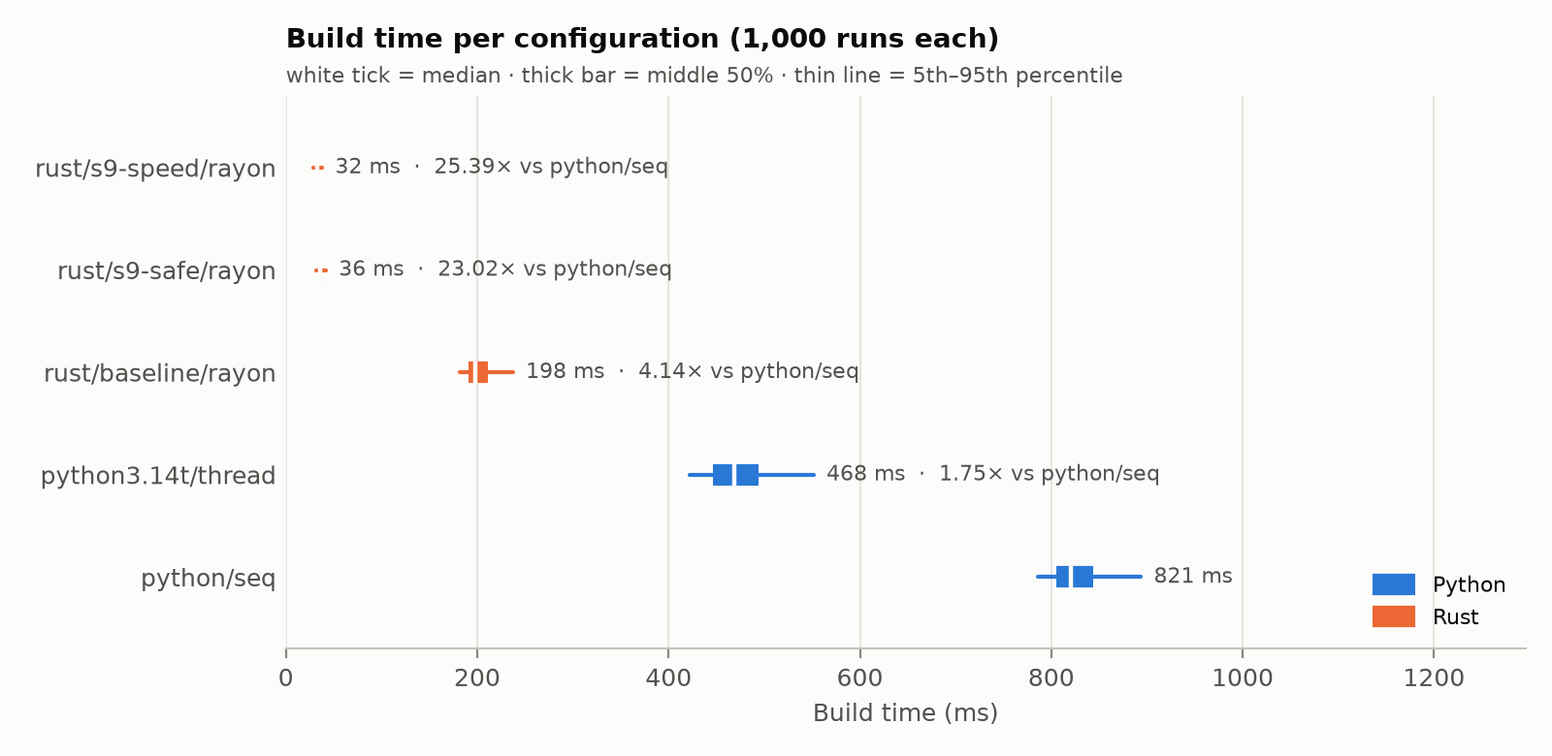
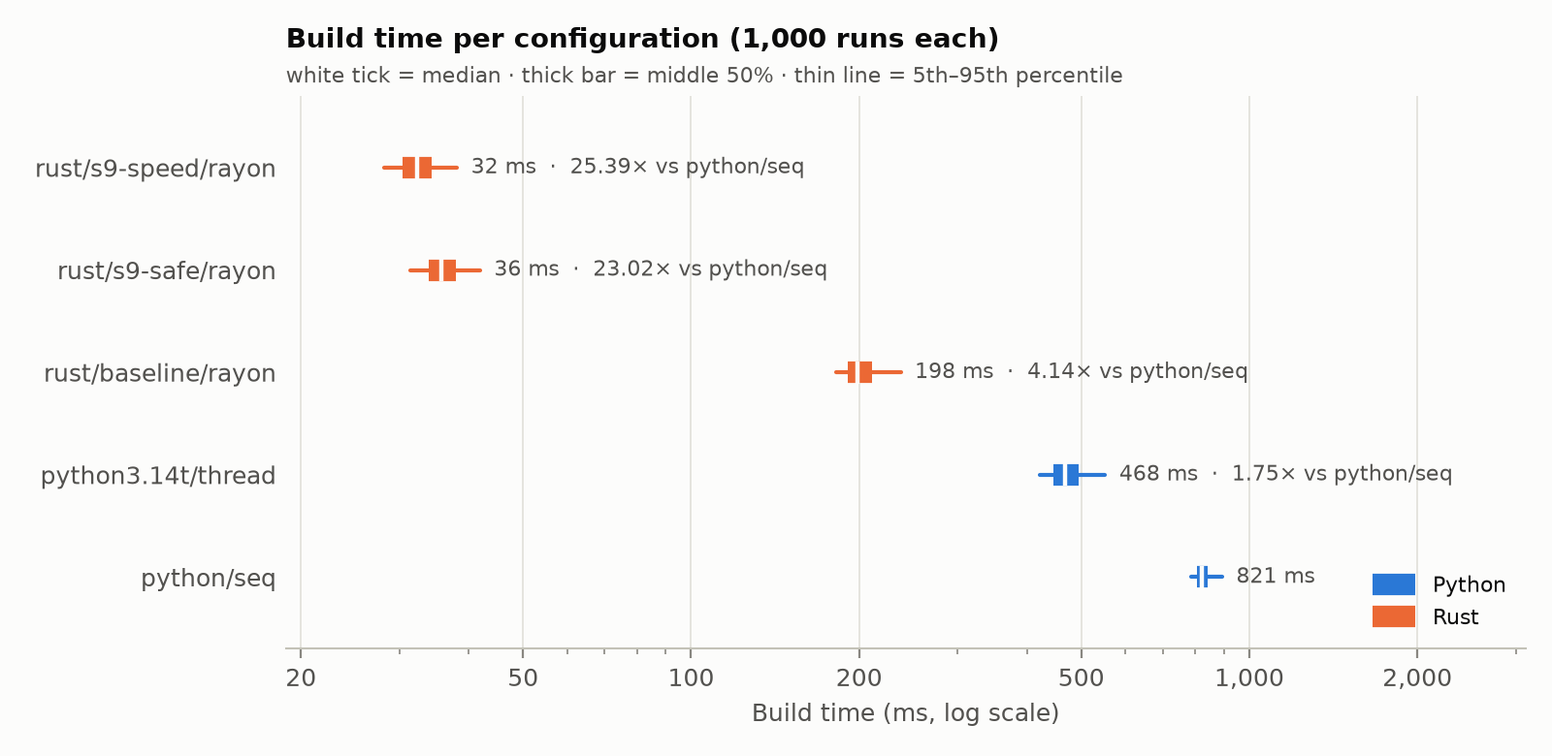
Series 2 overview: README section and log-scale charts

diff --git a/docs/NLP Computational Linguistics.md b/docs/NLP Computational Linguistics.md
@@ -1,0 +1,236 @@
+# NLP and Computational Linguistics: A Field Survey
+
+Oct 4, 2026 · @Jeremiah
+
+A map of the field for learning and for spotting where Rust is thin. Each area says what it does, the classic and modern methods, the Python tools people use, how far Rust has got, a small Rust exercise, and how it touches MARE.
+
+## At a glance
+
+Rust is strong at the bottom of the stack (characters, tokens, search, running models) and thin in the middle (parsing, meaning, discourse, corpus analysis). Rust status reflects what I found on 2026-10-04: **Mature** = several maintained crates, **Partial** = some pieces or bindings, **Thin** = little or dormant, **Gap** = nothing found.
+
+| Area | What it does | Python go-to | Rust today | MARE link |
+| --- | --- | --- | --- | --- |
+| Characters and text | Normalize, segment, repair encodings, correct OCR | ftfy, unicodedata, PyICU | Mature; OCR correction is a gap | Cleanup after extraction (fused words) |
+| Words | Tokens, subwords, stems, lemmas, morphology | spaCy, NLTK, HF tokenizers | Mature for tokenizers and stemming; lemmas thin | Indexing and chunking |
+| Syntax | Part-of-speech tags, parse trees | spaCy, Stanza, UDPipe | Partial | Structure-aware chunking |
+| Word meaning | Senses, lexicons, embeddings | NLTK WordNet, gensim, sentence-transformers | Partial (models run; lexicons thin) | Vector search |
+| Information extraction | Entities, linking, relations, coreference | spaCy, GLiNER, Stanza | Partial; coreference a gap | Knowledge graph |
+| Sentences and discourse | Semantic roles, discourse, sentiment, stance | transformers, VADER | Thin | Research synthesis |
+| Corpus linguistics | Concordance, collocation, keyness | NLTK, quanteda (R), AntConc | Thin | Exploring a corpus |
+| Language models | N-grams to LLMs | KenLM, transformers, vLLM | Mature for inference | Local models |
+| Speech and sound | Recognition, synthesis, pronunciation, alignment | Whisper, MFA, Parselmouth | Partial to mature | VTT transcripts |
+| Many languages | Language ID, transliteration, translation | fastText LID, lingua-py | Mature for language ID | Multilingual sources |
+| Search and QA | Retrieval, ranking, answers | Pyserini, bm25s, FAISS | Mature | HybridRAG core |
+| Generation | Summaries, simplification, dialogue | transformers, LLM APIs | Through model runtimes | Research reports |
+| Specialty fields | Style, history, acquisition, society | faststylometry, PyLangAcq, CLTK | Thin | Electric Sheep material |
+| Foundations | Annotation, treebanks, metrics | conllu, sacreBLEU, jiwer | Partial; document-parsing metrics a gap | Extraction metrics (B3) |
+
+## Characters and text
+
+Everything downstream depends on getting characters right: a fused word or a broken encoding poisons search, embeddings and metrics alike.
+
+- **Tasks:** Unicode normalization (NFC, NFKC), case folding, splitting into graphemes, words and sentences, fixing mojibake, de-hyphenating line breaks, correcting OCR errors.
+- **Methods:** rules and Unicode tables (UAX #29 for boundaries); dictionary and frequency-based repair; modern OCR post-correction uses sequence-to-sequence models or LLMs.
+- **Python:** `unicodedata`, PyICU, ftfy, wordninja and SymSpell for splitting fused words.
+- **Rust:** mature. `unicode-segmentation` and `unicode-normalization`, ICU4X, `plsfix` (an ftfy port with Python bindings), `charabia` (Meilisearch's normalizer). OCR post-correction: nothing found.
+- **Try in Rust:** a fused-word splitter. Learn word frequencies from the 21 books, then split "thewhale" into "the whale" with dynamic programming (Viterbi over word costs).
+- **MARE:** this is where its fused-word finding lives. A repair step after extraction is candidate 2 for the parallel project.
+
+## Words: tokens, stems, lemmas, morphology
+
+Deciding what counts as a word is the first real linguistic decision, and Rust is strongest here.
+
+- **Tasks:** tokenization; subword tokenization for models (BPE, WordPiece, Unigram); stemming ("running" → "run" by rule); lemmatization ("better" → "good" by dictionary); morphological analysis ("unhappiness" = un + happy + ness); segmenting languages written without spaces (Chinese, Japanese, Thai).
+- **Methods:** rules and finite-state transducers; dictionaries; statistical segmenters (Viterbi over a lattice); neural models.
+- **Python:** spaCy, NLTK, HF `tokenizers`, `tiktoken`, SentencePiece, jieba, SudachiPy.
+- **Rust:** mature for tokenizers. HF `tokenizers` is Rust underneath, plus `tiktoken-rs`, `bpe`, `rust-stemmers` (Snowball), `jieba-rs`, `lindera`, `vibrato`, `vaporetto`, `rustfst` (finite-state transducers). Lemmatization is thin.
+- **Try in Rust:** add Snowball stemming to your BM25 engine behind a Cargo feature, then measure recall and speed. Or train a tiny BPE tokenizer on the 21 books.
+- **MARE:** the tokenizer decides what the lexical index can match. Stemming trades precision for recall.
+
+## Syntax: tags and parse trees
+
+Syntax labels each word's role and how words attach to each other, and Rust has pieces but no complete parser of its own.
+
+- **Tasks:** part-of-speech tagging; chunking (noun phrases, verb groups); dependency parsing (which word governs which); constituency parsing (nested phrases).
+- **Methods:** hidden Markov models and averaged perceptrons for tagging; transition-based and graph-based dependency parsers; today, transformer encoders under a small parsing head. Universal Dependencies gives one annotation scheme for 100+ languages.
+- **Python:** spaCy, Stanza, UDPipe, Trankit, benepar (constituency).
+- **Rust:** partial. `rustling` has a perceptron tagger and HMMs. `udpipe-rs` binds UDPipe. `SpaRs` runs spaCy's English models natively but is experimental. `rust-bert` covers POS through transformer models.
+- **Try in Rust:** an averaged perceptron POS tagger trained on a Universal Dependencies treebank (CoNLL-U files). It's about 200 lines and teaches structs, traits and hash maps.
+- **MARE:** noun phrases make good index terms and graph nodes; parse trees help split long sentences into propositions.
+
+## Word meaning: senses, lexicons, embeddings
+
+Meaning comes either from hand-built lexicons or from where words occur ("you shall know a word by the company it keeps"). Rust can run the models, but the lexicon side is thin.
+
+- **Tasks:** word sense disambiguation (bank: river or money); lexical relations (synonyms, hypernyms); word and sentence embeddings; semantic similarity.
+- **Methods:** WordNet and FrameNet; counts and PMI matrices, then LSA; word2vec, GloVe and fastText; contextual embeddings from transformers; static distilled embeddings (Model2Vec) for speed.
+- **Python:** NLTK's WordNet, gensim, sentence-transformers, Model2Vec.
+- **Rust:** partial. Models run through `candle` (which ships BERT, E5 and GTE embedding models), `ort` and `rust-bert`. The embedding-format crates `finalfusion` and `finalfrontier` are dormant. WordNet access in Rust is thin.
+- **Try in Rust:** build a PMI co-occurrence matrix from the 21 books and list each word's nearest neighbours. It's distributional semantics with nothing but hash maps.
+- **MARE:** this is the vector half of HybridRAG (B2 and B6).
+
+## Information extraction: entities, relations, coreference
+
+Extraction turns text into structured facts: who, what, where, and how they connect. It's the raw material for a knowledge graph.
+
+- **Tasks:** named entity recognition (people, organizations, places, dates); entity linking (which "Washington" is meant, tied to a knowledge base); relation extraction (X founded Y); coreference ("she" = Dr. Lee); event extraction; keyword and keyphrase extraction.
+- **Methods:** gazetteers and rules; CRFs; fine-tuned transformers; zero-shot extractors such as GLiNER; LLMs prompted to emit triples.
+- **Python:** spaCy, Stanza, GLiNER, Flair, REBEL for relations, fastcoref, KeyBERT and YAKE for keyphrases.
+- **Rust:** partial. `rust-bert` has NER pipelines, and any ONNX model runs through `ort`. LeNLP's FlashText does fast dictionary matching. Coreference and entity linking: nothing found.
+- **Try in Rust:** a gazetteer NER with an Aho-Corasick automaton (the `aho-corasick` crate) over a list of names from the books. Then measure it against spaCy.
+- **MARE:** the semantic knowledge graph in B6 is built from this. The LLM extraction step dominates its cost.
+
+## Sentences and discourse: roles, structure, sentiment, stance
+
+Above the sentence, the questions become who did what to whom, how ideas connect, and what the writer thinks. LLMs now handle much of this, so dedicated tools are fading in Python too.
+
+- **Tasks:** semantic role labeling (agent, patient, instrument); discourse parsing (cause, contrast, elaboration between clauses, as in Rhetorical Structure Theory); argument mining (claims and evidence); sentiment and emotion; stance (for or against a target); hedging and certainty; pragmatics (implicature, speech acts, dialogue acts).
+- **Methods:** lexicons (VADER for sentiment); feature-based classifiers; fine-tuned transformers; LLM prompting.
+- **Python:** transformers pipelines, VADER, NLTK's sentiment tools. AllenNLP, the former home of SRL models, is archived.
+- **Rust:** thin. `vader_sentiment` is dormant; `rust-bert` has sentiment classification; anything else means running a model through `ort` or `candle`.
+- **Try in Rust:** port VADER's lexicon and rules (a few hundred lines) and check it gives the same scores as Python on a test set.
+- **MARE:** claim, evidence and hedging detection fit a research engine that has to weigh sources.
+
+## Corpus linguistics: patterns across many texts
+
+Corpus linguistics counts and compares language at scale. It's mostly statistics over big indexes, which suits Rust, yet Rust barely has it.
+
+- **Tasks:**
+  - concordance, or keyword in context (KWIC): every use of a word, with its neighbours;
+  - collocation: words that occur together more than chance, such as "strong tea";
+  - keyness: words over-used in one corpus compared with another;
+  - dispersion: whether a word appears evenly or in bursts;
+  - n-gram and lexical bundle counts;
+  - register and genre analysis.
+- **Methods:** association measures (PMI, log-likelihood, t-score, Dice); suffix arrays for fast n-gram and phrase lookup; multidimensional analysis (Biber).
+- **Python and others:** NLTK collocations, corpus-toolkit, spaCy plus pandas. Outside Python: quanteda (R) and AntConc and Sketch Engine (desktop and web).
+- **Rust:** thin. `rustling` counts n-grams; the rest is a gap.
+- **Try in Rust:** your index already holds word positions, so a KWIC concordance and PMI collocations are small additions to the playground engine.
+- **MARE:** keyness can tell a researcher what's distinctive about one source compared with the rest of a corpus.
+
+## Language models: n-grams to LLMs
+
+A language model assigns probabilities to text. Running neural models is now a strength of Rust; classic n-gram models are only partly covered.
+
+- **Tasks:** scoring how likely text is (perplexity); predicting the next word; generation; filtering data by quality; constrained decoding (forcing output into a schema).
+- **Methods:** n-gram models with smoothing (Kneser-Ney); RNNs; transformers; quantized local inference; speculative decoding.
+- **Python:** KenLM's Python module (the library itself is C++), transformers, vLLM, llama-cpp-python.
+- **Rust:** mature for inference. `llama-cpp-2` (the most used), `mistralrs` (pure Rust, on `candle`), `candle-transformers` and `burn`. `llguidance` handles constrained decoding inside vLLM, SGLang and llama.cpp, so Rust already sits underneath the Python stack. For n-grams, `rustling` has language models and `kenlm-rs` binds KenLM.
+- **Try in Rust:** a Kneser-Ney trigram model over the 21 books. Then use its perplexity to spot garbled text, such as a bad extraction.
+- **MARE:** local models for research agents. A cheap n-gram "does this look like language" score could flag extraction failures.
+
+## Speech and sound
+
+Speech is where computational linguistics meets signal processing. Rust is surprisingly strong at running speech models, but thin on phonetic analysis.
+
+- **Tasks:** speech recognition (ASR) and synthesis (TTS); converting spelling to pronunciation (grapheme-to-phoneme, G2P); forced alignment (timing each word and sound); voice activity detection; speaker diarization (who spoke when); phonetic measurement (pitch, formants); phonological analysis (sound patterns, syllables).
+- **Methods:** HMM-GMM systems and finite-state transducers; neural end-to-end models (Whisper, Parakeet); Praat-style acoustic analysis.
+- **Python:** Whisper, faster-whisper, Montreal Forced Aligner, Parselmouth (Praat), Epitran and phonemizer for G2P, pyannote for diarization. WikiPron (by rustling's author) is a large G2P dataset.
+- **Rust:**
+  - Running models is partial to mature: `whisper-rs`, `sherpa-onnx` (recognition, TTS, diarization), `parakeet-rs`, `piper-rs`, a pure-Rust `espeak-ng` port, and `earshot` for voice activity detection.
+  - Audio plumbing is mature: `symphonia`, `rustfft`, `rubato`.
+  - Phonetic analysis and forced alignment are thin. `rustling` reads TextGrid and ELAN files.
+- **Try in Rust:** a syllable counter, or a G2P lookup built from WikiPron data.
+- **MARE:** VTT transcripts are already an input format, and diarization would attribute quotes to speakers.
+
+## Many languages: identification, transliteration, translation
+
+Most NLP tools assume English. Multilingual work starts with knowing which language you have, and that's one place where Rust leads.
+
+- **Tasks:** language identification (including short and mixed-language text); script detection; transliteration (Москва → Moskva); machine translation; cross-lingual embeddings and search; low-resource and endangered languages.
+- **Methods:** character n-gram profiles; fastText classifiers; neural translation (MarianMT, NLLB); multilingual encoders (XLM-R, LaBSE).
+- **Python:** fastText's language ID model, `lingua-py` (which now runs on the Rust `lingua`), langdetect, CTranslate2, transformers.
+- **Rust:** mature for language ID. `lingua` is accurate on short text and `whatlang` is fast and light. `charabia` detects scripts. Translation runs through model runtimes (`candle`, `ort`, `rust-bert`'s translation pipelines). Transliteration is thin.
+- **Try in Rust:** a character-trigram language identifier (Cavnar-Trenkle profiles), then compare it with `whatlang` for accuracy and speed.
+- **MARE:** route documents to the right tokenizer and stemmer, and decide whether a source needs translation before indexing.
+
+## Search and question answering
+
+Information retrieval is NLP's most-used application, and the one your playground already builds. The full set of search types and their chunking is in the ideas doc (series B6).
+
+- **Tasks:** lexical search (BM25); dense vector search; learned sparse search (SPLADE); late interaction (ColBERT, ColPali); hybrid fusion and reranking; query expansion and spelling correction; extractive and generative question answering; chunking.
+- **Methods:** inverted indexes and BM25; approximate nearest-neighbour graphs (HNSW); cross-encoder rerankers; retrieval-augmented generation.
+- **Python:** Pyserini, `bm25s`, `rank_bm25`, FAISS, sentence-transformers, tantivy-py.
+- **Rust:** mature. `tantivy`, Meilisearch, Qdrant, LanceDB, `text-splitter` for chunking, plus `bm25` and `tokenizers`.
+- **Try in Rust:** already underway: your engine, then Series 3 against tantivy, then chunking the books (idea C10).
+- **MARE:** HybridRAG's core.
+
+## Generation: summaries, simplification, dialogue
+
+Generation is now mostly LLM work. What's left for computational linguistics is controlling it and measuring it.
+
+- **Tasks:** summarization (extractive and abstractive); simplification and readability; paraphrase; data-to-text; dialogue systems; checking that output is faithful to its source (hallucination detection).
+- **Methods:** extractive ranking (TextRank, LexRank); sequence-to-sequence models; LLM prompting with constrained decoding. Measured by ROUGE, BERTScore, readability formulas (Flesch-Kincaid), and fact-checking with natural language inference (NLI) models.
+- **Python:** transformers, LLM SDKs, sumy (extractive), `textstat` (readability), `rouge-score`, `bert-score`.
+- **Rust:** generation itself runs through the inference crates (`llama-cpp-2`, `mistralrs`). Evaluation metrics and readability are thin.
+- **Try in Rust:** an extractive TextRank summarizer: sentence similarity plus PageRank over a graph, perhaps with `petgraph`.
+- **MARE:** research reports are generation. Faithfulness checks against cited passages tie back to the "one document, many chunkings" offsets idea.
+
+## Specialty fields
+
+These are where computational linguistics answers questions about people and history rather than building products. Most of their tools are small Python or R packages, and Rust has almost none.
+
+| Field | Questions it asks | Typical tools |
+| --- | --- | --- |
+| Stylometry and authorship | Who wrote this? Has the style changed? Is it machine-written? | Burrows's Delta, function-word profiles; faststylometry, stylo (R) |
+| Historical linguistics | How did words and meanings change? Which languages are related? | Semantic change from embeddings over time, cognate detection; CLTK, LingPy |
+| Language acquisition | How do children learn language? | CHILDES/TalkBank transcripts; PyLangAcq, rustling (CHAT files) |
+| Sociolinguistics | How does language vary by group, place, platform? | Variation models, dialect maps |
+| Psycholinguistics | What makes text hard to process? | Surprisal from language models, reading-time corpora |
+| Domain NLP | Legal, clinical, financial, scientific text | scispaCy, domain models, citation parsing (GROBID) |
+
+**Rust:** thin across all of them. `rustling` is the main exception, for acquisition data.
+
+**Try in Rust:** a Burrows's Delta authorship test over the 21 books. Can it tell your authors apart from 5,000-word samples?
+
+**Your work:** stylometry and machine-text detection would make natural Electric Sheep pieces, and scientific-document parsing is MARE's world.
+
+## Foundations: annotation, data and evaluation
+
+Every area above stands on annotated data and agreed metrics. This is the least glamorous part of the field and the one that decides whether results mean anything.
+
+- **Annotation:** guidelines; tools (Label Studio, INCEpTION, brat); agreement between annotators (Cohen's and Fleiss' kappa, Krippendorff's alpha).
+- **Data formats and resources:** CoNLL-U and Universal Dependencies treebanks, Penn Treebank, OntoNotes, CHAT (CHILDES), TextGrid, and benchmarks such as GLUE, BEIR and OmniDocBench.
+- **Metrics:**
+  - Classification: precision, recall, F1.
+  - Text output: WER and CER for speech and OCR; BLEU, chrF and COMET for translation; ROUGE and BERTScore for summaries.
+  - Search: nDCG and recall@k.
+  - Document parsing: edit distance, TEDS for tables, reading order.
+  - Statistics: significance tests and bootstrap confidence intervals (as in your benchmarks).
+- **Python:** `conllu`, sacreBLEU, jiwer, `ranx` and `ir_measures`, `krippendorff`, `evaluate`.
+- **Rust:** partial. `werx` and `rwer` compute WER; `rustling` reads CoNLL-U and CHAT. For document-parsing metrics and agreement statistics, nothing found.
+- **Try in Rust:** Krippendorff's alpha, or TEDS. Both are well defined and have Python reference outputs to match.
+- **MARE:** this is series B3, and candidate 1 for the parallel project.
+
+## Where Rust has gaps
+
+The gaps cluster in the middle of the stack (analysis, metrics, linguistics proper), not at the bottom (tokens, search, model runtimes). The ones nearest your work are document-parsing evaluation and text repair.
+
+| Gap | Who needs it | Fits | Effort |
+| --- | --- | --- | --- |
+| Document-parsing metrics (TEDS, reading order, fused words) | Anyone building document AI or RAG ingestion | Parallel project candidate 1; series B3 | Medium |
+| Repairing text after extraction and OCR | Every RAG pipeline | Candidate 2 | Medium |
+| Corpus linguistics (KWIC, collocation, keyness, dispersion) | Linguists, digital humanities, researchers | Candidate 4, or contribute to rustling | Small to medium |
+| Agreement statistics (kappa, Krippendorff's alpha) | Anyone annotating data | A small crate, or part of candidate 1 | Small |
+| Readability and generation metrics (Flesch, ROUGE, BERTScore) | Evaluation pipelines | A small crate | Small |
+| Lemmatization and a full native parser | General NLP users | Candidate 5 (spaCy-style) | Large |
+| Coreference and entity linking | Knowledge-graph builders | Model runtimes plus glue | Large |
+| Stylometry | Digital humanities, machine-text detection | A small crate; an Electric Sheep story | Small |
+
+The pattern for a visible project is the same in every row: a Rust core, Python bindings on PyPI, and benchmarks against the Python incumbent. The "Try in Rust" exercises above double as prototypes for the small rows.
+
+## Sources
+
+The Rust status column draws on the pages below, opened 2026-10-04. Python tools and method histories are general knowledge of the field, not separately sourced. "Nothing found" means a search came up empty, not that nothing exists.
+
+- [Are We Learning Yet: Modalities & Domains](https://www.arewelearningyet.com/modalities) (text, tokenization and speech crates, with status)
+- [Are We Learning Yet: LLMs & Foundation Models](https://www.arewelearningyet.com/llms)
+- [rustling](https://github.com/jacksonllee/rustling) and [its docs](https://docs.rustling.io)
+- [SpaRs](https://github.com/jotx19/SpaRs)
+- [udpipe-rs](https://docs.rs/udpipe-rs)
+- [plsfix](https://docs.rs/crate/plsfix/latest)
+- [werx](https://pypi.org/project/werx/) and [rwer](https://docs.rs/crate/rwer/0.2.2)
+- [LeNLP](https://github.com/raphaelsty/LeNLP)
+- [OmniDocBench](https://arxiv.org/html/2412.07626v2)
+- [wtpsplit](https://github.com/bminixhofer/wtpsplit)
+- Companion: the project doc `claude/rust-playground-series-ideas.md` (series B3, B6, B7 and section H)

diff --git a/docs/Rust Playground Series Ideas.md b/docs/Rust Playground Series Ideas.md
@@ -1,6 +1,6 @@
 # rust-playground: every idea in one place
 
-*Last updated 2026-10-04. Companion to `claude/rust-playground-handoff.md`. This is the complete list: every idea raised so far, by Jeremiah, by Claude, or in the README's "Ideas for next exercises". Nothing is ranked here, and no order is decided. Who raised each idea is in brackets.*
+*Last updated 2026-10-04. Companion to `claude/rust-playground-handoff.md`. This is the complete list: every idea raised so far, by Jeremiah, by Claude, or in the README's "Ideas for next exercises". Nothing is ranked here, and no order is decided. Who raised each idea is in brackets. Section H is a separate, parallel project, not a playground series.*
 
 ## Through-line: where Rust and Python divide in MARE Pro [Jeremiah]
 - Every experiment should help decide where to draw the line between Rust and Python in MARE Pro.
@@ -177,6 +177,19 @@ Each type of search needs its own chunking strategy, and we may have to experime
 8. **Save the index to disk and load it** [README list]. Would add a "load against rebuild" benchmark, and is useful before B5, since a service loads its index at startup.
 9. **Corpus scaling: 21 → ~200 → ~2,000 files** [Claude, 10-02]. Not done yet.
 10. **Chunk the books for BM25** [Claude, from B6]: index paragraphs or fixed windows instead of whole books, then sweep the chunk size and b. It's a small first step into B6.
+11. **The survey's "Try in Rust" exercises** [Claude, 2026-10-04; see H]. One per area:
+    - a fused-word splitter;
+    - Snowball stemming in the engine;
+    - a perceptron POS tagger;
+    - PMI word neighbours;
+    - gazetteer NER;
+    - a VADER port;
+    - KWIC and collocations;
+    - a Kneser-Ney trigram model;
+    - a character-trigram language identifier;
+    - TextRank;
+    - Burrows's Delta;
+    - Krippendorff's alpha or TEDS.
 
 ## D. Later
 1. **A Python tuning series** [Claude]: the same treatment Rust got. B7's configuration 2 (`bm25s`) is a first taste.
@@ -213,3 +226,82 @@ Each type of search needs its own chunking strategy, and we may have to experime
   - segments and a sharded merge (s9; segments adopted);
   - query time as a metric (s8).
 - **Profiling:** the flamegraph (456afa6).
+
+## H. Parallel project: a high-visibility, highly useful open-source Rust repo [Jeremiah, 2026-10-04]
+His interests: NLP and computational linguistics. This would be a separate repo, not part of the playground. Nothing is chosen yet.
+
+**Field survey (done 2026-10-04) [Jeremiah asked for it, as a learning experience]:**
+- A Claude Doc, "NLP and Computational Linguistics: A Field Survey": https://claude.ai/code/artifact/039989c1-5773-42b2-b032-77b5d5ed79eb
+- It covers 14 areas. For each: what it does, methods, the Python tools, Rust's status, a "Try in Rust" exercise, and the MARE link. It ends with a table of Rust gaps.
+- **.md copy:** he asked for one. It was delivered in the chat as `nlp-computational-linguistics-survey.md`; where to save it locally is not decided yet.
+- **Open comment in the doc:** should a next pass go deeper on document-parsing evaluation and text repair, or wider (speech, stylometry)?
+
+**What makes a repo like this visible and useful [Claude]:**
+- it fills a gap;
+- it ships Python bindings to PyPI, since that's where the users are (B7 teaches how);
+- it has benchmarks against the Python incumbents (his strength);
+- its scope can reach a credible 1.0 solo;
+- it uses the usual Rust licensing (MIT/Apache-2.0);
+- it doubles as MARE infrastructure and as writing material for Electric Sheep.
+
+**Landscape checked 2026-10-04 (gaps are "not found", not proven):**
+- **Word and character error rates:** already taken in Rust. `werx` (Rust-backed, on PyPI) and `rwer` exist.
+- **Fixing mojibake (garbled text encoding):** `plsfix` exists, a Rust port of ftfy with Python bindings.
+- **General computational linguistics:** `rustling` (details below).
+- **spaCy in Rust:** `SpaRs` runs spaCy's English models natively, but it's experimental and has 0 stars. `udpipe-rs` binds UDPipe.
+- **Sentence segmentation:** the state-of-the-art SaT models (wtpsplit) are Python. Rust has `sentencex` (rules-based) and the older `nnsplit`.
+- **Evaluating document parsing:** reference implementations are Python (OmniDocBench's evaluation code: edit distance, TEDS, reading order). No Rust toolkit found.
+
+**rustling, checked 2026-10-04:**
+- **Owner:** Jackson L. Lee (GitHub `jacksonllee`), a computational linguist with a PhD in Linguistics from the University of Chicago. He works full-time in data analytics and maintains open source on the side.
+- **His other projects:** PyCantonese (~420 stars; an LREC 2022 paper), WikiPron (~376), iso639 (~54), PyLangAcq (~45).
+- **The repo:** about 3 stars, 0 forks, 28 commits, 1 open PR, MIT, v0.9.0 (Sep 30, 2026). It's a personal project, not an organization's.
+- **Already polished:** it ships to PyPI, conda-forge, Pyodide (WASM) and crates.io. It has a Zenodo DOI, a documentation site (docs.rustling.io) and a benchmarks folder comparing it with Python packages.
+- **Not published:** a roadmap or contribution guidelines.
+- **Likely focus (Claude's inference):** its formats (CHAT, ELAN, TextGrid, CoNLL-U) suggest research on language acquisition and spoken language, close to PyLangAcq's world.
+- **Few features because it's young and run by one person,** not because it's poorly built.
+
+**Contribute to rustling or build something better: options [Claude]:**
+1. **Contribute to rustling.**
+   - For: a credible academic maintainer, packaging and CI already solved, his code to learn from, and a fit for corpus linguistics features (collocations, concordance, keyness).
+   - Against: little visibility today (3 stars); he sets the direction and the pace; no contribution guide, so ask first in an issue.
+2. **Build a better general toolkit.**
+   - For: full control and ownership.
+   - Against: competing for the same small audience gains little visibility; it splits a tiny niche; he'd have to rebuild the packaging rustling already has; "better" would need a reason users care about, such as speed, a missing feature area, or a different audience.
+3. **Both [Claude's lean]: own the document-text-quality repo (candidates 1 and 2 below), and contribute corpus linguistics features to rustling.**
+   - Visibility comes from a problem many people have (RAG and document extraction), not from a broader general toolkit.
+   - Contributing to rustling builds a relationship with an established researcher and is good Rust practice.
+   - First step: read rustling's code and benchmarks, check how quickly the open PR gets answered, then open an issue proposing the feature.
+
+**Candidates [Claude]:**
+1. **A toolkit for evaluating document extraction.**
+   - Covers correct words over total words, word precision, fused and split words, CER/WER, reading order, TEDS for tables, and layout.
+   - Fast Rust core with Python bindings, checked against the reference implementations so its numbers match published results.
+   - TEDS (tree edit distance) is CPU-heavy, so Rust's speed matters here.
+   - Ties to B3 and MARE's harness. Its audience is everyone building document AI or RAG ingestion.
+   - Risk: a narrower audience than general NLP.
+2. **Repairing text after extraction.**
+   - Splits fused words (word segmentation from word frequencies, generalizing MARE's finding), rejoins hyphenated line breaks, normalizes ligatures and Unicode, removes headers, footers and page numbers, and rejoins broken lines.
+   - Builds on `plsfix` rather than redoing it.
+   - Every RAG pipeline needs this. Risk: depends on the language, and needs candidate 1's metrics to prove quality.
+3. **Fast sentence and semantic segmentation.**
+   - Runs the SaT models in Rust through `ort`, with a chunker that keeps source offsets.
+   - Ties to B6. Chunking is a hot topic; risks: it depends on the models, and chunking crates like `text-splitter` already exist.
+4. **A corpus linguistics toolkit.**
+   - KWIC concordance, collocations (PMI, log-likelihood, t-score), keyness, dispersion, and suffix-array n-grams over large corpora. Think AntConc or quanteda in Rust, with Python bindings.
+   - Closest to computational linguistics proper. It overlaps `rustling`, so contributing these features to rustling is an alternative.
+5. **A spaCy-style pipeline in Rust:** tokenizer, tagger, parser, lemmatizer, NER.
+   - Highest visibility if it works, but by far the largest effort, and it chases a moving target. SpaRs already exists.
+6. **Contribute to an existing project** (rustling, tantivy, HF tokenizers, text-splitter).
+   - Fastest credibility, but he owns less of it.
+   - The audience comes for free only with the large projects (tantivy, tokenizers); rustling's audience is still tiny.
+
+**Smaller gap-filling crates (from the survey):**
+- agreement statistics (kappa, Krippendorff's alpha);
+- readability and generation metrics (Flesch, ROUGE);
+- stylometry.
+
+**Claude's lean:** candidates 1 and 2 as one project: measure document text quality, then fix it.
+- **Why:** it's the clearest gap found, it rests on his own evidence (fused words, MARE's main metric), it doubles as MARE infrastructure, and it makes a good Electric Sheep story.
+- **How to start:** with 1, which is smaller and can be checked against reference implementations.
+- **Constraint:** test data must be public, since MARE's corpus can't be used (E7, licensing). The OmniDocBench dataset is a candidate, pending a license check.

diff --git a/README.md b/README.md
@@ -390,6 +390,47 @@ Each measured against the step before it, in its own experiment.
 
 ![Median build time per step, with step 5](bench/results/20261004-163351_s5-wordids/steps.png)
 
+#### Overview: Python against the end of Series 2
+
+Experiment `20261004-233633_overview`. One run with five configurations: sequential Python, free-threaded
+Python 3.14t with 24 threads, the Rust baseline, and the current code (step 9, segments) with each hasher.
+`s9-safe` uses the default SipHash and `s9-speed` FxHash (`--features rustc-hash`); both are built from
+the same commit (`5abcea3`), so the hasher is the only difference.
+
+| Configuration | Median build (95% CI) | vs Python sequential | Cores used | CPU time | Peak memory |
+|---|---|---|---|---|---|
+| Python, sequential | 820.7 ms (818.6 to 822.9) | 1.00× | 0.97 | 1,413 ms | 162 MB |
+| Python 3.14t, threads (24, free-threaded) | 468.5 ms (466.3 to 471.1) | 1.75× | 1.80 | 2,119 ms | 371 MB |
+| Rust baseline, rayon | 198.2 ms (197.1 to 199.0) | 4.14× | 2.82 | 708 ms | 141 MB |
+| Rust step 9, SipHash (`s9-safe`) | 35.7 ms (35.4 to 35.8) | 23.0× | 9.32 | 487 ms | 135 MB |
+| Rust step 9, FxHash (`s9-speed`) | 32.3 ms (32.1 to 32.5) | 25.4× | 9.49 | 455 ms | 131 MB |
+
+- **Series 2 made the Rust build 6.1× faster** (198.2 to 32.3 ms; 5.6× with the default hasher). Rust
+  is now 25× faster than sequential Python and 14.5× faster than free-threaded Python.
+- **FxHash is now worth 9.3%** (−10.0% to −8.5%) over SipHash, down from 21% in step 7. Most of step 7's
+  gain was in the merge, and segments removed the merge. The trade is unchanged: FxHash for text you
+  trust, SipHash when inputs could be crafted to collide.
+- **Rust does less work, not only more of it at once.** It spends 455 ms of CPU where sequential
+  Python spends 1,413 ms, about a third. Free-threaded Python gets its 1.75× by spending 50% more CPU
+  than sequential Python, and uses 2.3× the memory.
+- **The tuned build uses less memory than the baseline** (131 to 135 MB against 141 MB), even with
+  mimalloc holding freed memory for reuse.
+- **About 9.5 of 24 cores are busy.** That figure counts start-up and exit (about 15 ms of the 48 ms
+  wall time), so more are busy during the build itself. Still, 21 books on 24 threads cap the
+  parallelism, and the largest book (`moby.txt`, 1.28 MB of 13.4 MB) likely decides when the build
+  ends. A timer per file would show it.
+- **Rust's spread looks larger** (9.5% coefficient of variation against Python's 4.5%) only because a
+  few milliseconds of scheduling jitter is a bigger share of 32 ms. The medians are still pinned down
+  to ±0.2 ms.
+- **Compare within this run.** Both Python configurations ran 8 to 9% slower than in Series 1 (756.7
+  to 820.7 ms; 428.8 to 468.5 ms), while the Rust baseline stayed within 2% of the Series 2 runs
+  (195.5 to 198.2 ms).
+
+Both charts use a log scale, so equal distances are equal ratios.
+
+![Build time across runs, Python and Rust at the end of Series 2](bench/results/20261004-233633_overview/run_sequence.png)
+![Build time per configuration, end of Series 2](bench/results/20261004-233633_overview/distribution.png)
+
 **Remaining steps:**
 
 1. A new full-series experiment, so step 9 joins the main table, measured alongside every earlier
